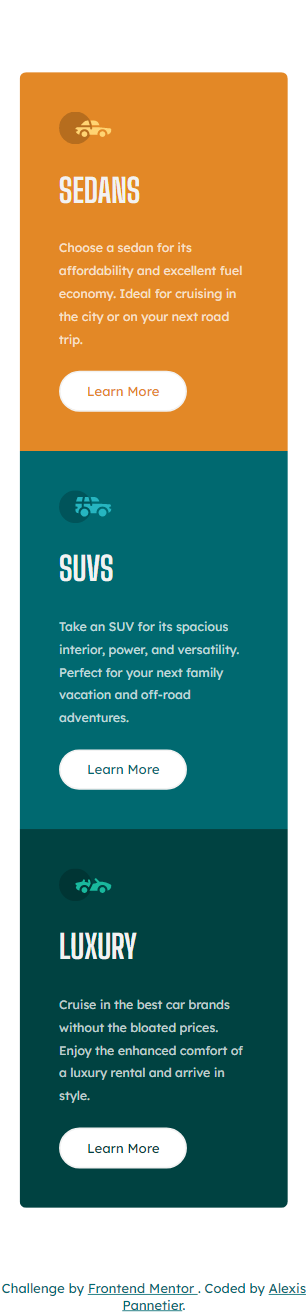
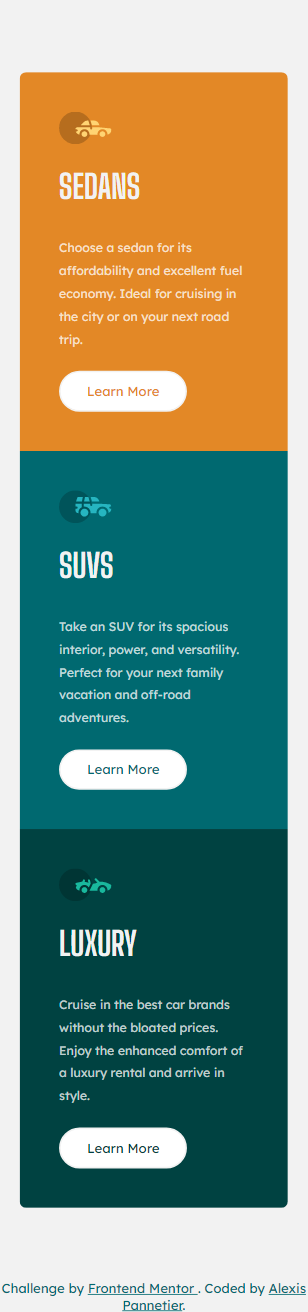
🩹 background-color + h2 margin fix

diff --git a/style.css b/style.css
@@ -23,7 +23,7 @@ h2 {
   font-weight: 700;
   text-transform: uppercase;
   font-size: 2.5rem;
-  margin: 2rem 0;
+  margin: 1.75rem 0 2.25rem 0;
 }
 
 p,
@@ -44,6 +44,7 @@ body {
   min-height: 100vh;
   position: relative;
   margin: 0;
+  background-color: var(--very-light-gray);
 }
 
 main {
